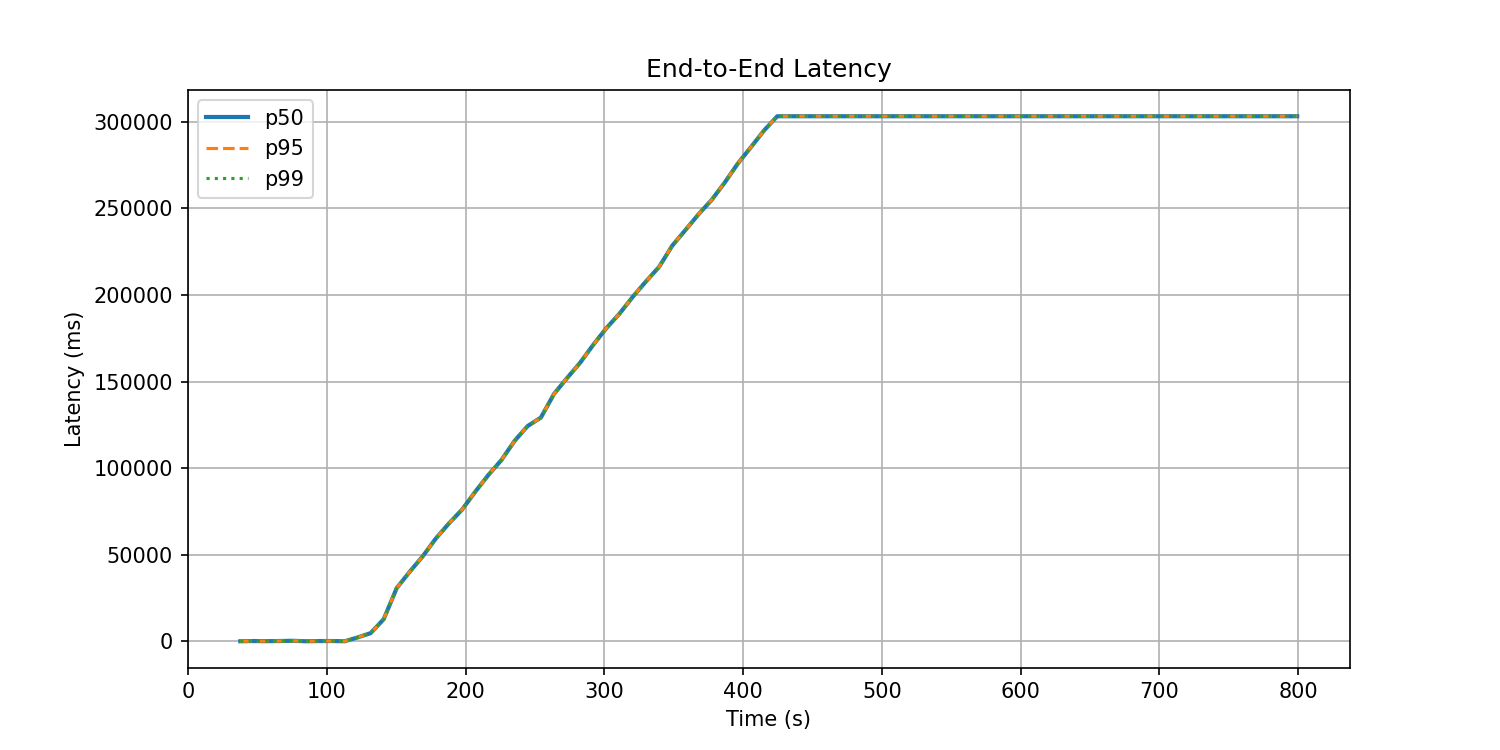
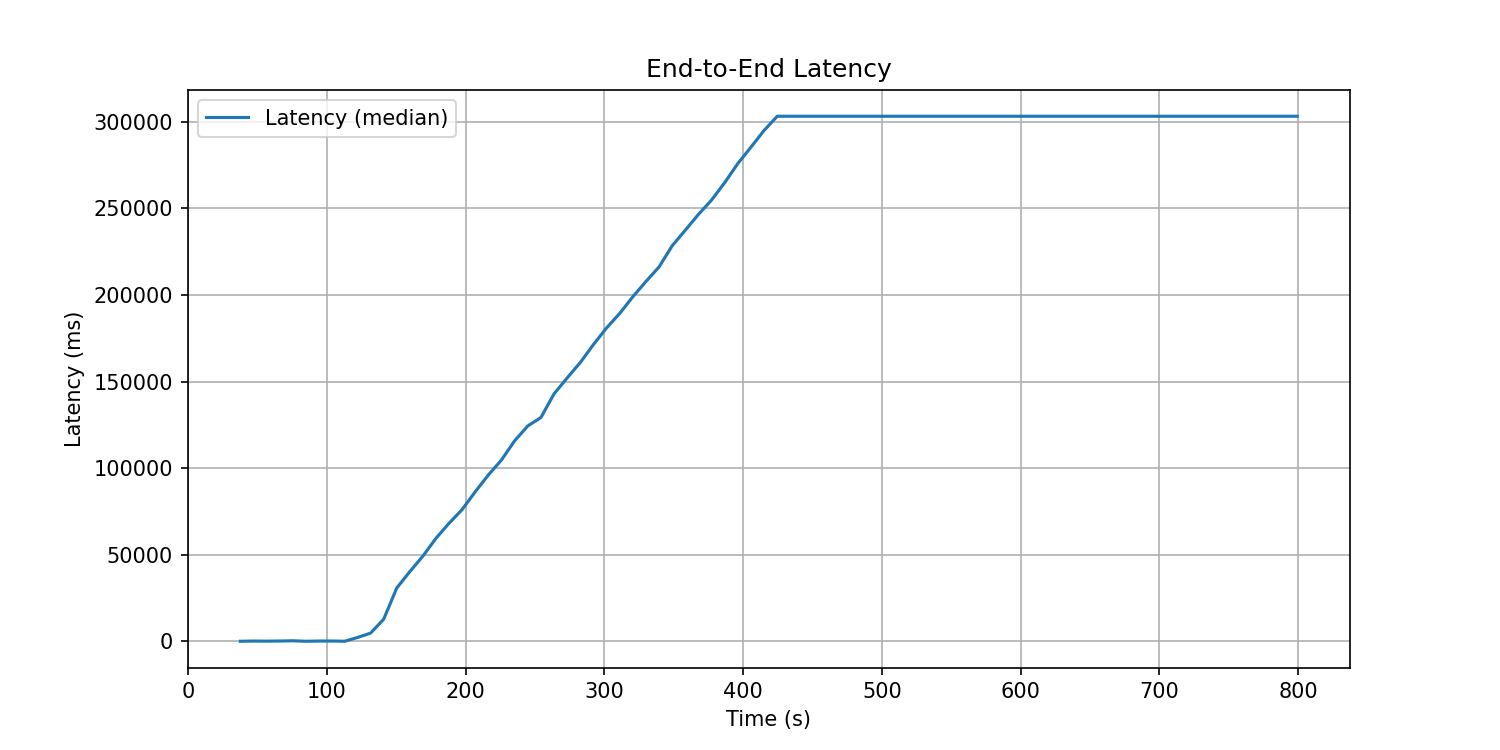
Simplify latency plot to single median line
Nemo reports a single latency figure (same value for all percentiles),
so showing three overlapping lines was misleading. Use latencyMedian
only, labeled as "Latency (median)".

diff --git a/scripts/cloudlab/plot_metrics.py b/scripts/cloudlab/plot_metrics.py
@@ -222,17 +222,15 @@ def plot_latency(df: pd.DataFrame, work_dir: str):
     if df.empty:
         return
     plt.figure(figsize=(10, 5))
-    styles = [("-", 2.0), ("--", 1.5), (":", 1.5)]
-    any_plotted = False
-    for (col, label), (ls, lw) in zip([("latencyMedian", "p50"), ("latencyP95", "p95"), ("latencyP99", "p99")], styles):
-        if col in df.columns:
-            valid = df[col] >= 0
-            if valid.any():
-                plt.plot(df.loc[valid, "rel_s"], df.loc[valid, col], label=label, linestyle=ls, linewidth=lw)
-                any_plotted = True
-    if not any_plotted:
+    col = "latencyMedian"
+    if col not in df.columns:
         plt.close()
         return
+    valid = df[col] >= 0
+    if not valid.any():
+        plt.close()
+        return
+    plt.plot(df.loc[valid, "rel_s"], df.loc[valid, col], label="Latency (median)")
     plt.xlabel("Time (s)")
     plt.ylabel("Latency (ms)")
     plt.title("End-to-End Latency")
